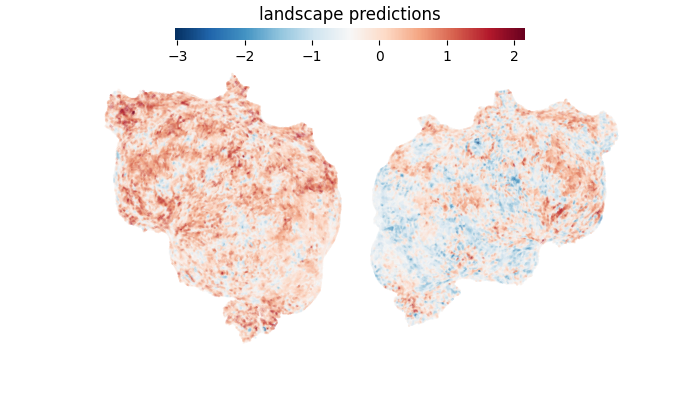
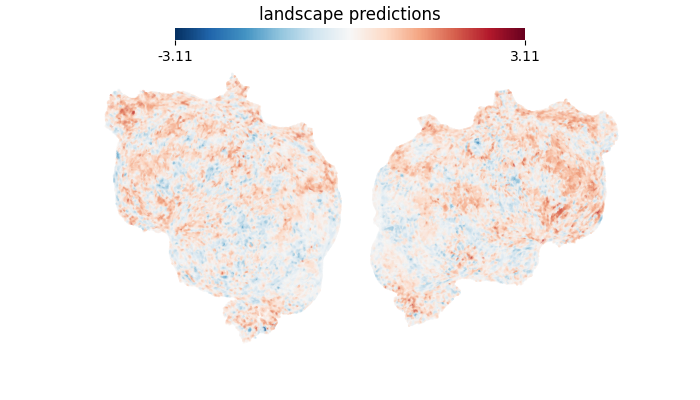
add top pred visuals and fix layer 4 dimension issues

diff --git a/container/visualize_predictions.py b/container/visualize_predictions.py
@@ -7,7 +7,7 @@ from nilearn.datasets import load_mni152_template
 import sys
 
 
-def create_flatmap(subject, layer, modality, prediction_path):
+def create_flatmap(subject, layer, modality, prediction_path, top_pred=False):
     """Function to run the vision encoding model. Predicts brain activity
     to story listening and return predictions between predictions and real
     brain activity.
@@ -34,6 +34,13 @@ def create_flatmap(subject, layer, modality, prediction_path):
     """
     # Load predictions
     predictions = np.load(prediction_path)
+
+    # if top_pred is True, only plot the top 1% and bottom 1% of 
+    # predictions, rest become 0
+    if top_pred is True:
+        upper_pred = np.percentile(predictions, 97)
+        bottom_pred = np.percentile(predictions, 3)
+        predictions[(predictions > bottom_pred) & (predictions < upper_pred)] = 0
 
     # Reverse flattening and masking
     fmri_alternateithicatom = np.load("data/fmri_data/storydata/" + subject +
@@ -67,13 +74,14 @@ def create_flatmap(subject, layer, modality, prediction_path):
     rh_vertex_coords = np.load("data/fmri_data/mappers/" + subject +
                                "_vertex_coords_rh.npy")
 
-    # vmin, vmax = -5, 5
+    vmin, vmax = -np.max(abs(predictions)), np.max(abs(predictions))
+
     fig, axs = plt.subplots(1, 2, figsize=(7, 4))
 
     # Plot the first flatmap
     sc1 = axs[0].scatter(lh_vertex_coords[:, 0], lh_vertex_coords[:, 1],
                          c=lh_vertex_prediction_data, cmap='RdBu_r',
-                         s=.005)  # vmin=vmin, vmax=vmax,
+                         vmin=vmin, vmax=vmax, s=.01)
     axs[0].set_aspect('equal', adjustable='box')  # Ensure equal scaling
     # axs[0].set_title('Left Hemisphere')
     axs[0].set_frame_on(False)
@@ -83,7 +91,7 @@ def create_flatmap(subject, layer, modality, prediction_path):
     # Plot the second flatmap
     _ = axs[1].scatter(rh_vertex_coords[:, 0], rh_vertex_coords[:, 1],
                        c=rh_vertex_prediction_data, cmap='RdBu_r',
-                       s=.005)  # vmin=vmin, vmax=vmax,
+                       vmin=vmin, vmax=vmax, s=.01)
     axs[1].set_aspect('equal', adjustable='box')  # Ensure equal scaling
     # axs[1].set_title('Right Hemisphere')
     axs[1].set_frame_on(False)
@@ -98,15 +106,17 @@ def create_flatmap(subject, layer, modality, prediction_path):
     cbar = fig.colorbar(sc1, cax=cbar_ax, orientation='horizontal')
 
     # Set the color bar to only display min and max values
-    # cbar.set_ticks([vmin, vmax])
-    # cbar.set_ticklabels([f'{vmin}', f'{vmax}'])
+    cbar.set_ticks([vmin, vmax])
+    cbar.set_ticklabels([f'{vmin:.2f}', f'{vmax:.2f}'])
 
     # Remove the color bar box
     cbar.outline.set_visible(False)
     plt.title(f'{subject}\n{modality} predictions')
 
-    plt.savefig('results/' + modality + '_check/' + subject + '/layer' +
-                layer + '_visual.png', format='png')
+    if top_pred is True:
+        plt.savefig(f'results/{modality}_check/{subject}/layer{layer}_visual_top.png', format='png')
+    else:
+        plt.savefig(f'results/{modality}_check/{subject}/layer{layer}_visual.png', format='png')
     plt.show()
 
 
@@ -205,7 +215,8 @@ if __name__ == "__main__":
         layer = sys.argv[2]
         modality = sys.argv[3]
         prediction_path = sys.argv[4]
-        create_flatmap(subject, layer, modality, prediction_path)
+        create_flatmap(subject, layer, modality,
+                       prediction_path)
         create_3d_mni_plot(subject, layer, prediction_path)
     else:
         print("Please provide the subject, layer, modality, and prediction \

diff --git a/container/testBT.py b/container/testBT.py
@@ -16,6 +16,7 @@ from himalaya.backend import set_backend
 from sklearn.model_selection import check_cv
 from sklearn.preprocessing import StandardScaler
 from sklearn.pipeline import make_pipeline
+from sklearn.decomposition import PCA
 from sklearn import set_config
 
 # Model
@@ -216,6 +217,13 @@ def get_movie_features(movie_data, layer, n=30):
     data = np.array(data[f"layer_{layer}"])
     print("Got movie features")
 
+    # Data should be 2d of shape (n_images/n, num_features)
+    # if data is above 2d, flatten 2nd+ dimensions
+    if data.ndim > 2:
+        data = data.reshape(data.shape[0], -1)
+        pca = PCA(n_components=768)
+        data = pca.fit_transform(data)
+
     return data
 
 
@@ -249,6 +257,8 @@ def vision_model(subject, layer):
 
         # Extract features from raw stimuli
         train00 = get_movie_features(data_path + 'train_00.hdf', layer)
+        print("Feature data shape:", train00.shape)
+
         train01 = get_movie_features(data_path + 'train_01.hdf', layer)
         train02 = get_movie_features(data_path + 'train_02.hdf', layer)
         train03 = get_movie_features(data_path + 'train_03.hdf', layer)
